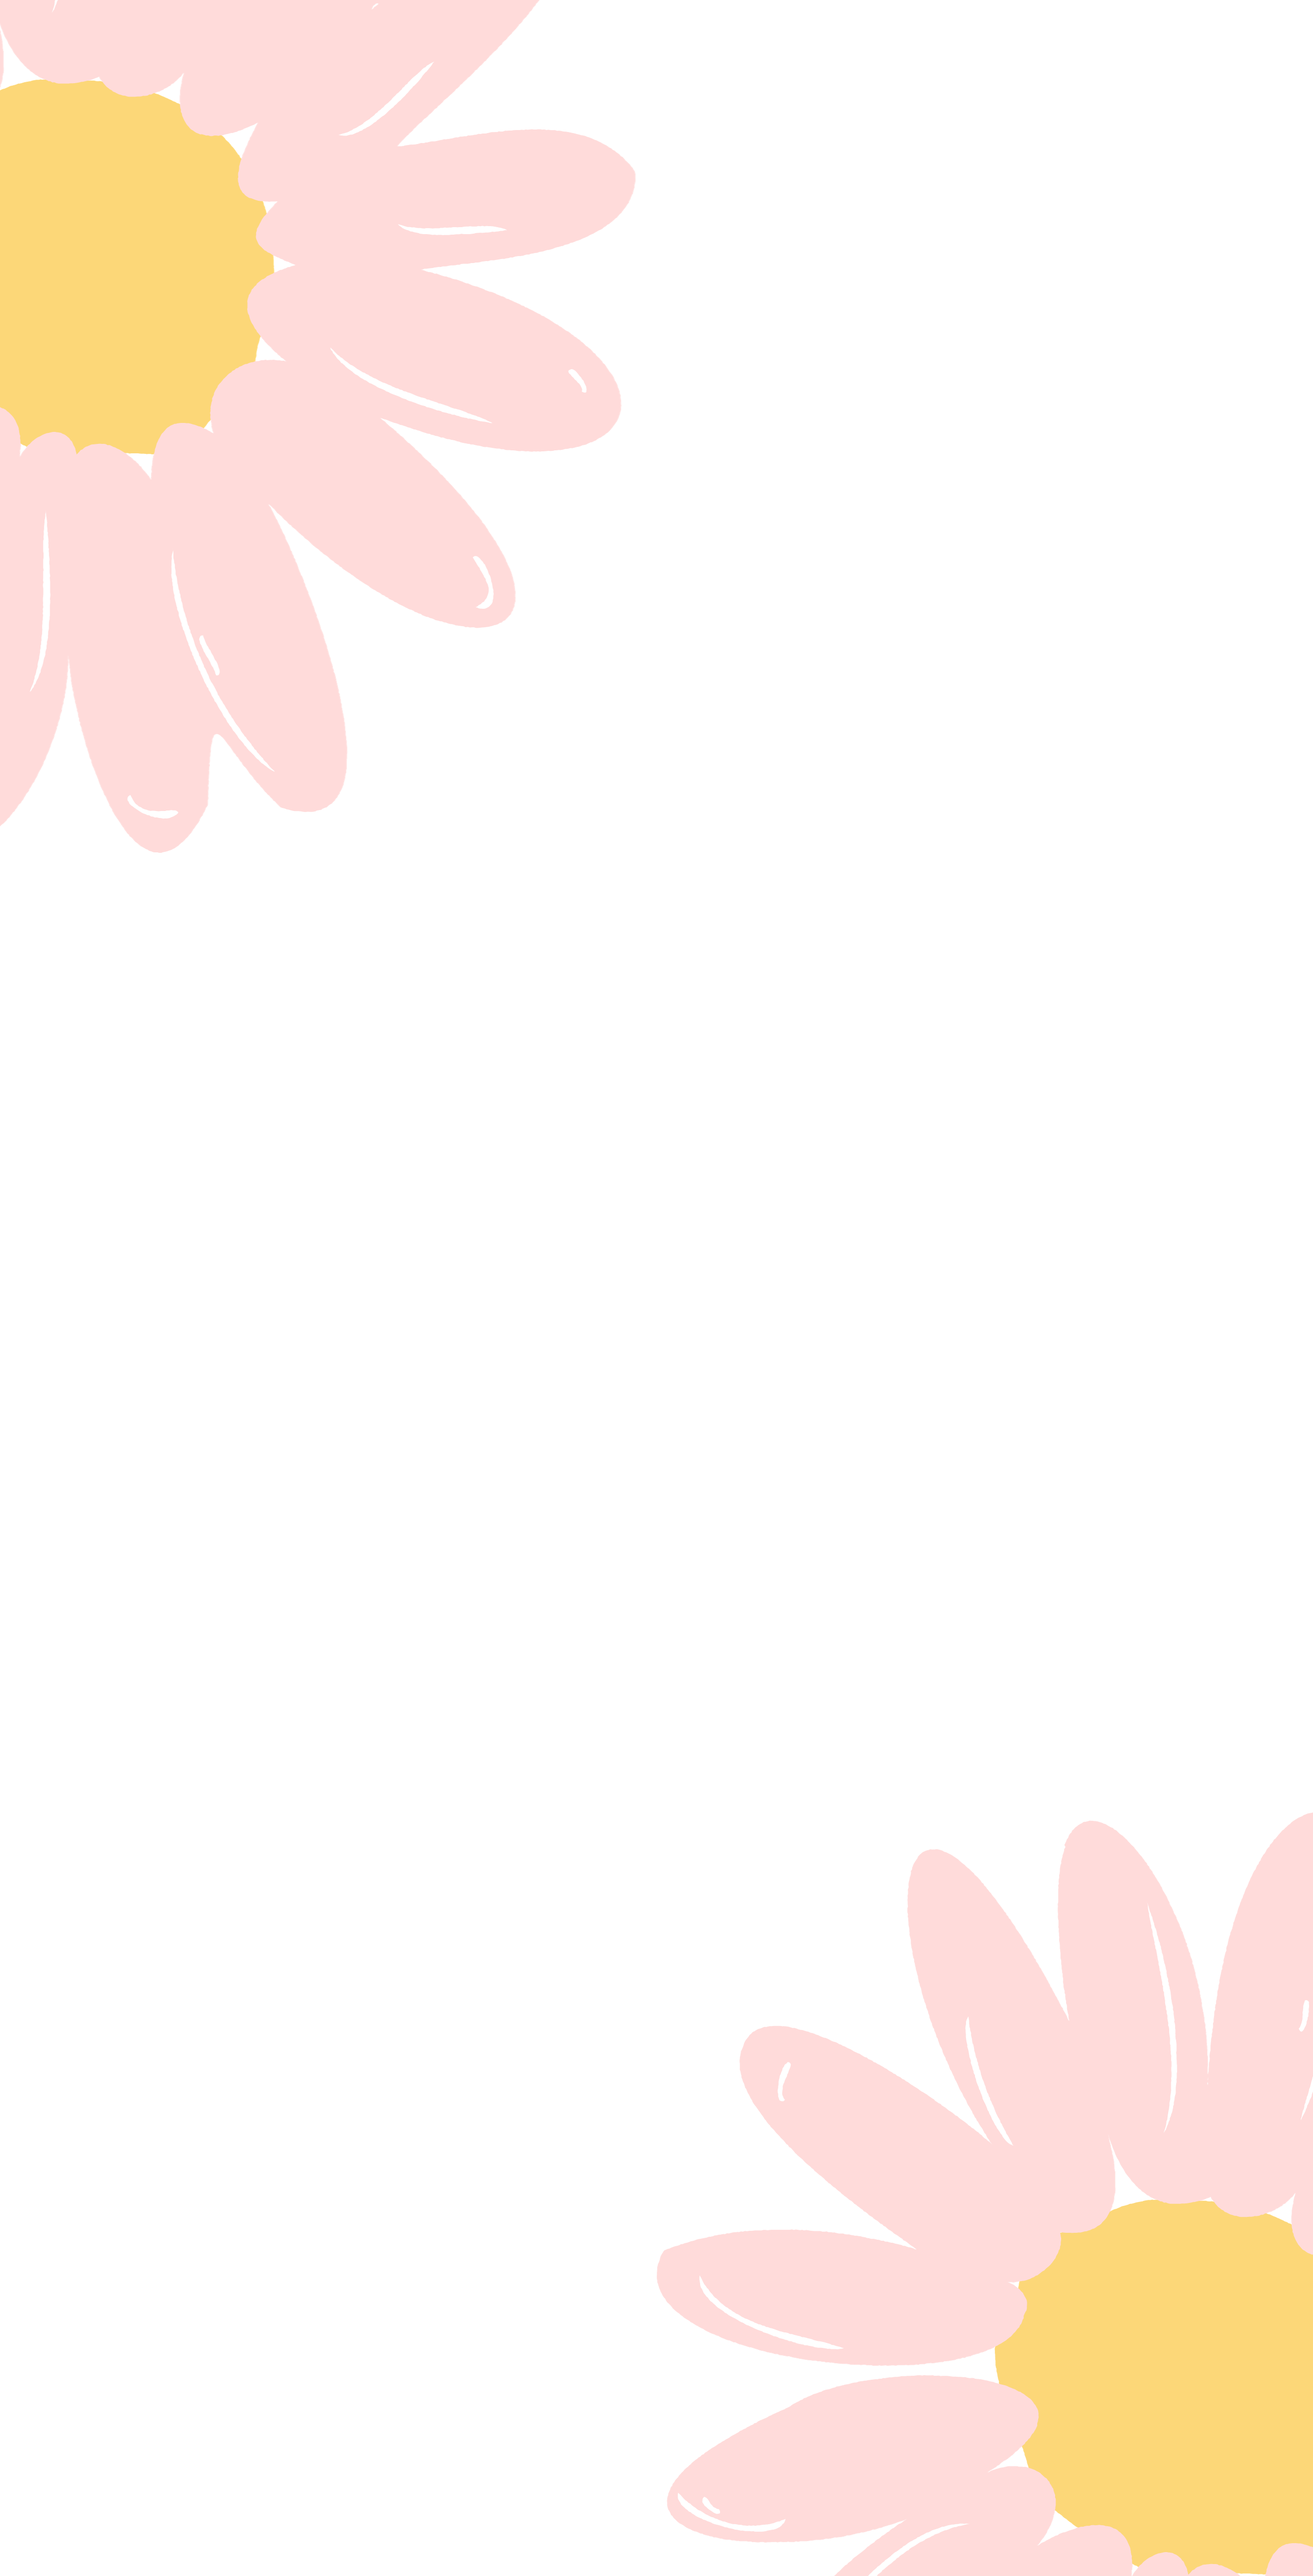
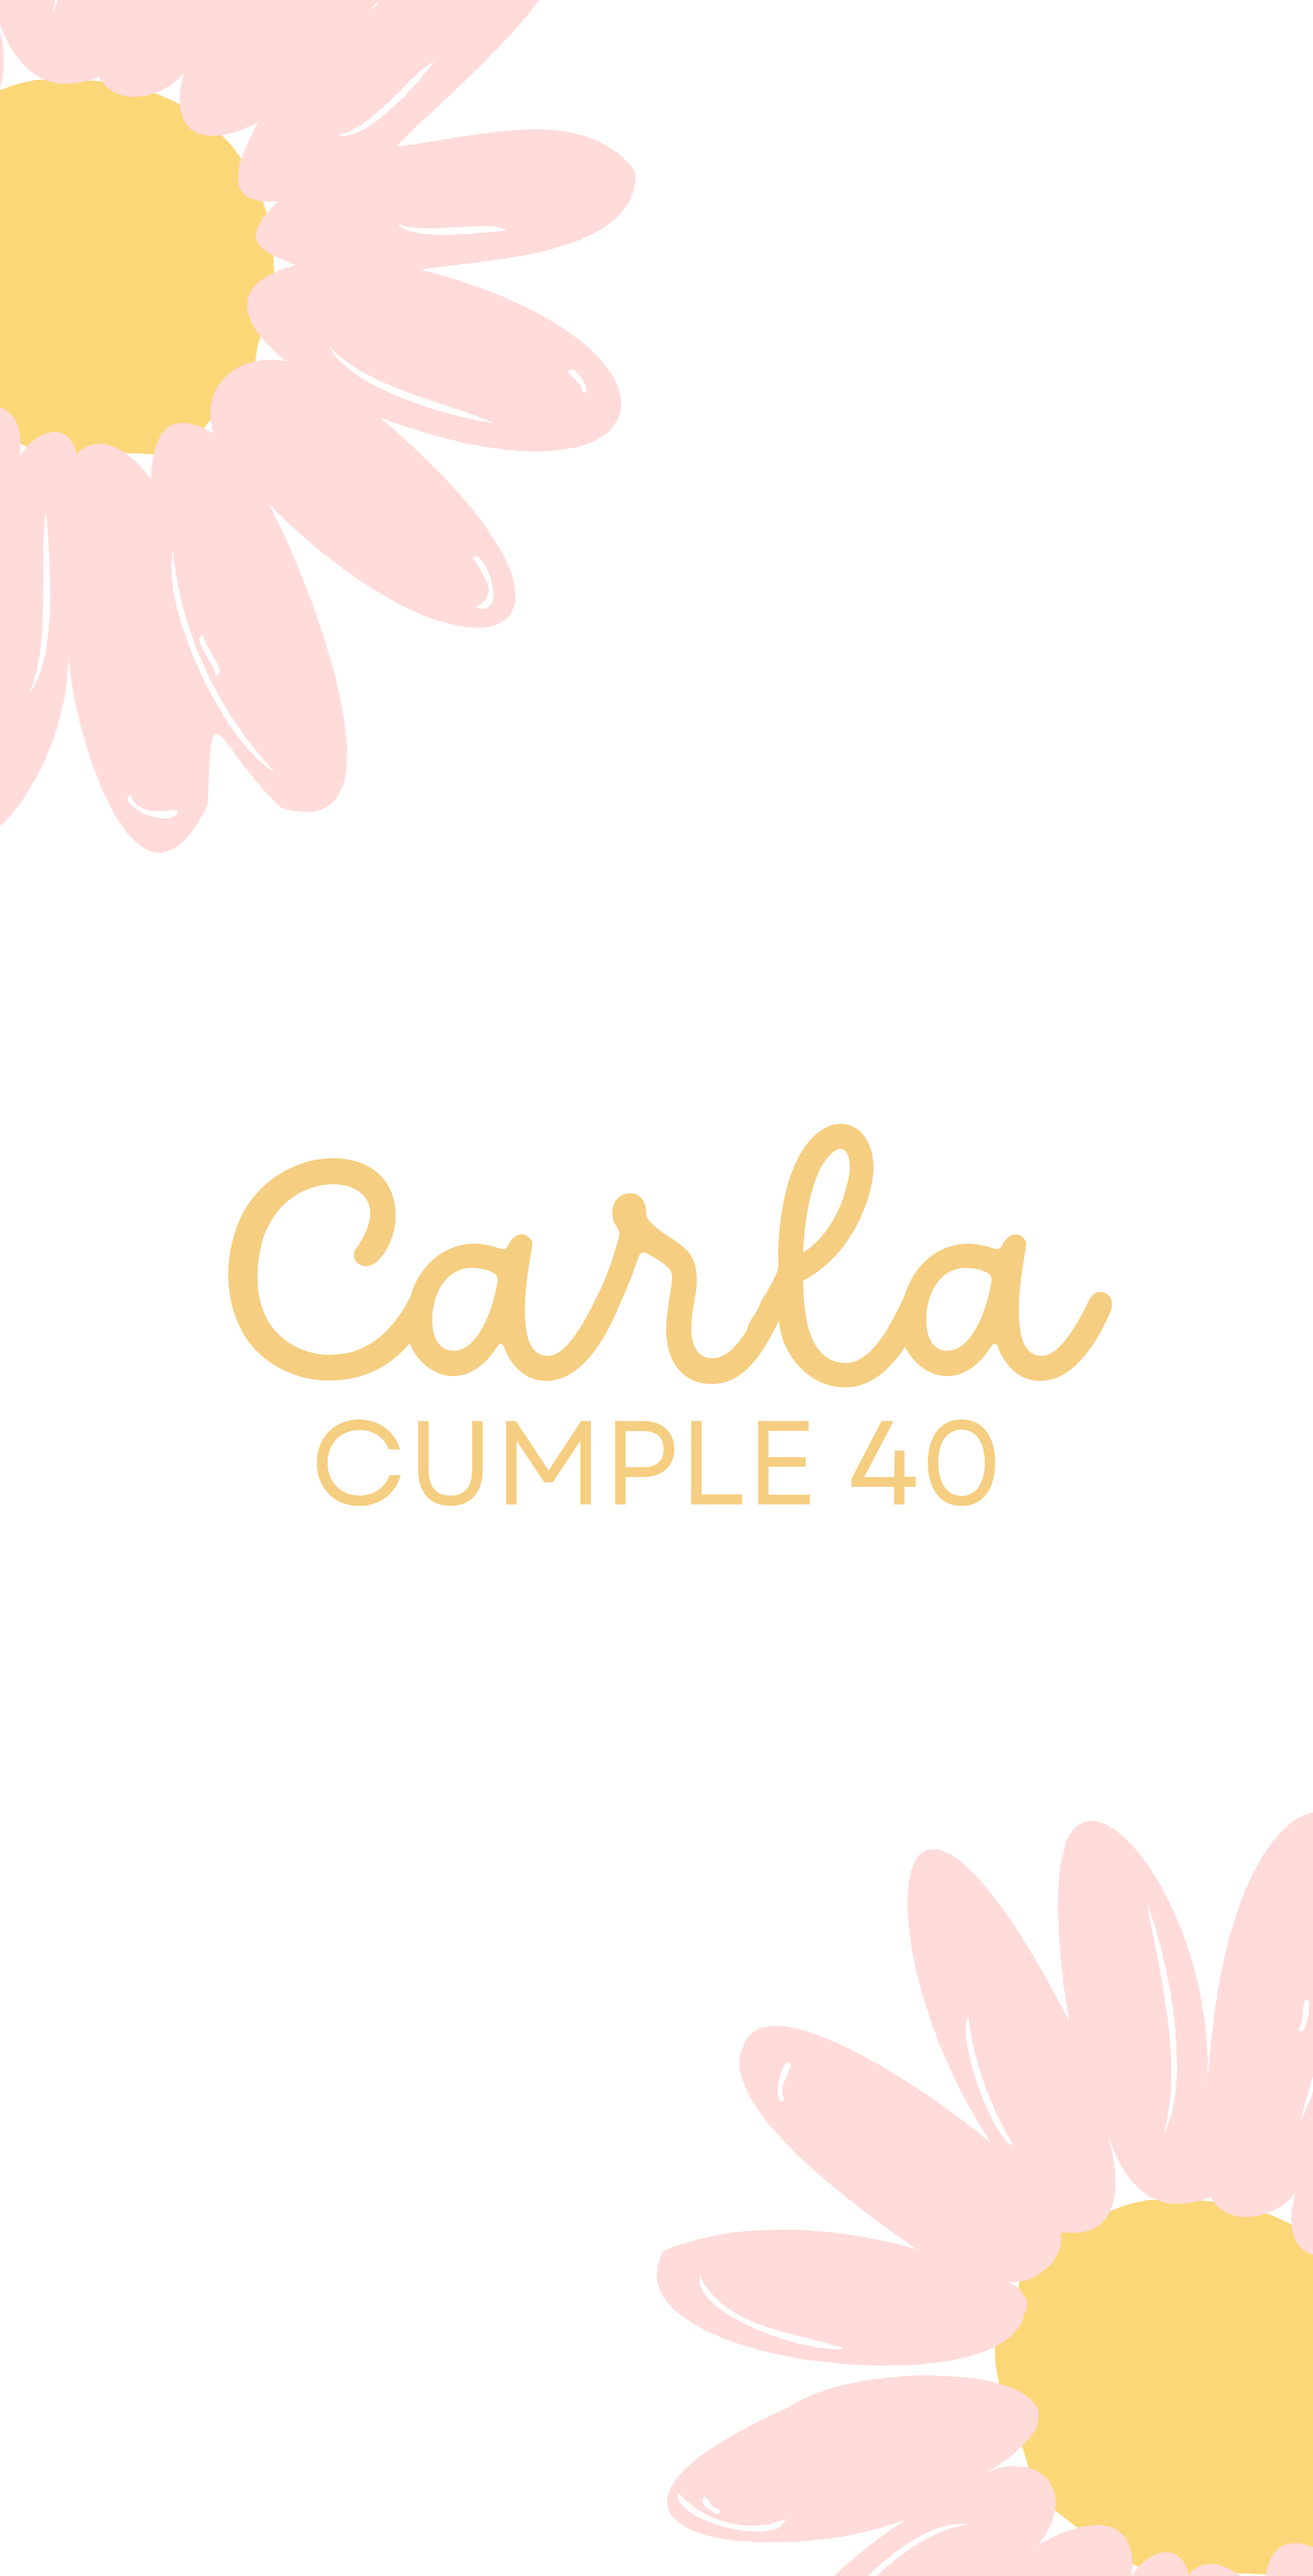
modif
act

Changed region(s): [[0.1555, 0.4359, 0.8396, 0.5916]]

diff --git a/index.html b/index.html
@@ -18,8 +18,11 @@
             <div class="infoimportante">
                 <img src="./img/icon-1.png" alt="">
                 <br>
-                <h1>CARLA</h1>
+                <!--
+                  <h1>CARLA</h1>
                 <H2>CUMPLE CUARENTA</H2>
+              -->
+                <img class="dos" src="./img/name.png" alt="name">
                 <a class="boton" target="_blank"  href="http://evt.to/asmsseosw">AGENDAR</a>    
             </div>
        </div>
@@ -56,7 +59,7 @@
         -->
   </main>
     <div class="galeria">
-        <img class="f4" src="./img/img1.png" alt="CARLA">
+        <img class="f4" src="./img/img10.png" alt="CARLA">
         <img class="f2" src="./img/img4.png" alt="CARLA">
         <img class="f3" src="./img/img6.png" alt="CARLA">
         <img class="f1" src="./img/img7.png" alt="CARLA">
@@ -72,15 +75,15 @@
       <div class="galeria">
         <img class="f3" src="./img/img1.png" alt="CARLA">
         <img class="f2" src="./img/img2.png" alt="CARLA">
-        <img class="f4" src="./img/img3.png" alt="CARLA">
+        <img class="f4" src="./img/img11.png" alt="CARLA">
         <img class="f1" src="./img/img6.png" alt="CARLA">
       </div>
       <div class="end">
           <div>
             <img src="./img/icon-1.png" alt="">
           </div>
-          <div>
-            <h2>CARLA</h2>
+          <div class="logoname">
+            <img src="/img/name.png" alt="name">
             <H3>16.12.23</H3>
           </div>
           <div>

diff --git a/style.css b/style.css
@@ -80,7 +80,9 @@ header .animales {
     margin: 0px;
     margin: 0px;
 }
-
+.animales a {
+    margin-top: 20px;
+}
 .boton {
     border: 1px solid var(--color-secundario);
     background-color: var(--color-secundario);
@@ -228,6 +230,10 @@ main p {
     margin: 0;
     font-size: 1.2em;
 }
+.end .logoname img{
+    height: 45px;
+    width: auto;
+}
 .end .espejo{
     transform: scaleX(-1);
 }
@@ -290,7 +296,18 @@ footer img {
         flex-direction: column;
         text-align: center;
     }
+    .animales .dos {
+        width: 120px;
+        padding: 0;
+        margin: 0;
+    }
+    .animales a {
+        margin-top: 260px;
+    }
     .infoimportante img {
+        display: none;
+    }
+    .animales .dos {
         display: none;
     }
     .segundo {
@@ -298,6 +315,7 @@ footer img {
         width: 100%;
         color: var(--color-secundario);
     }
+
    
     .f1, .f2, .f3 {
         display: none;
